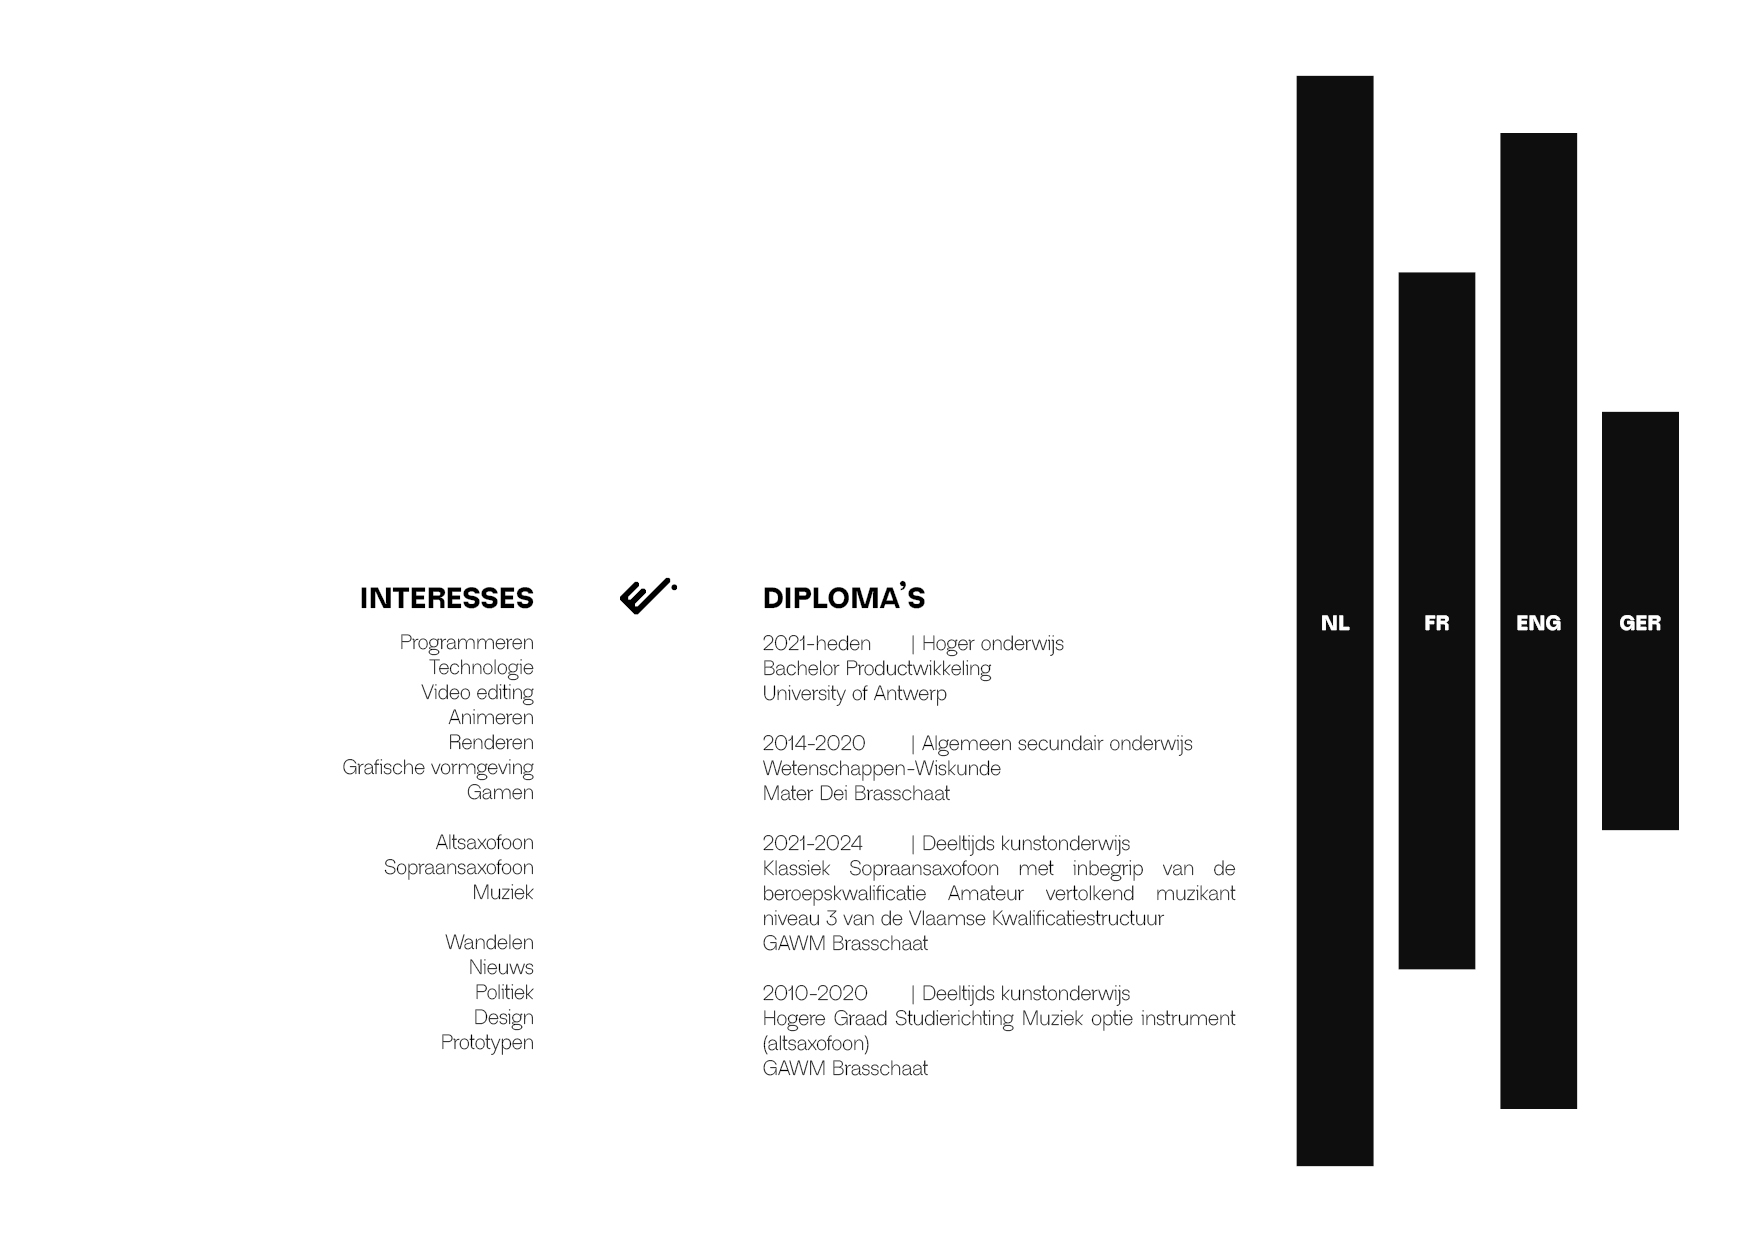
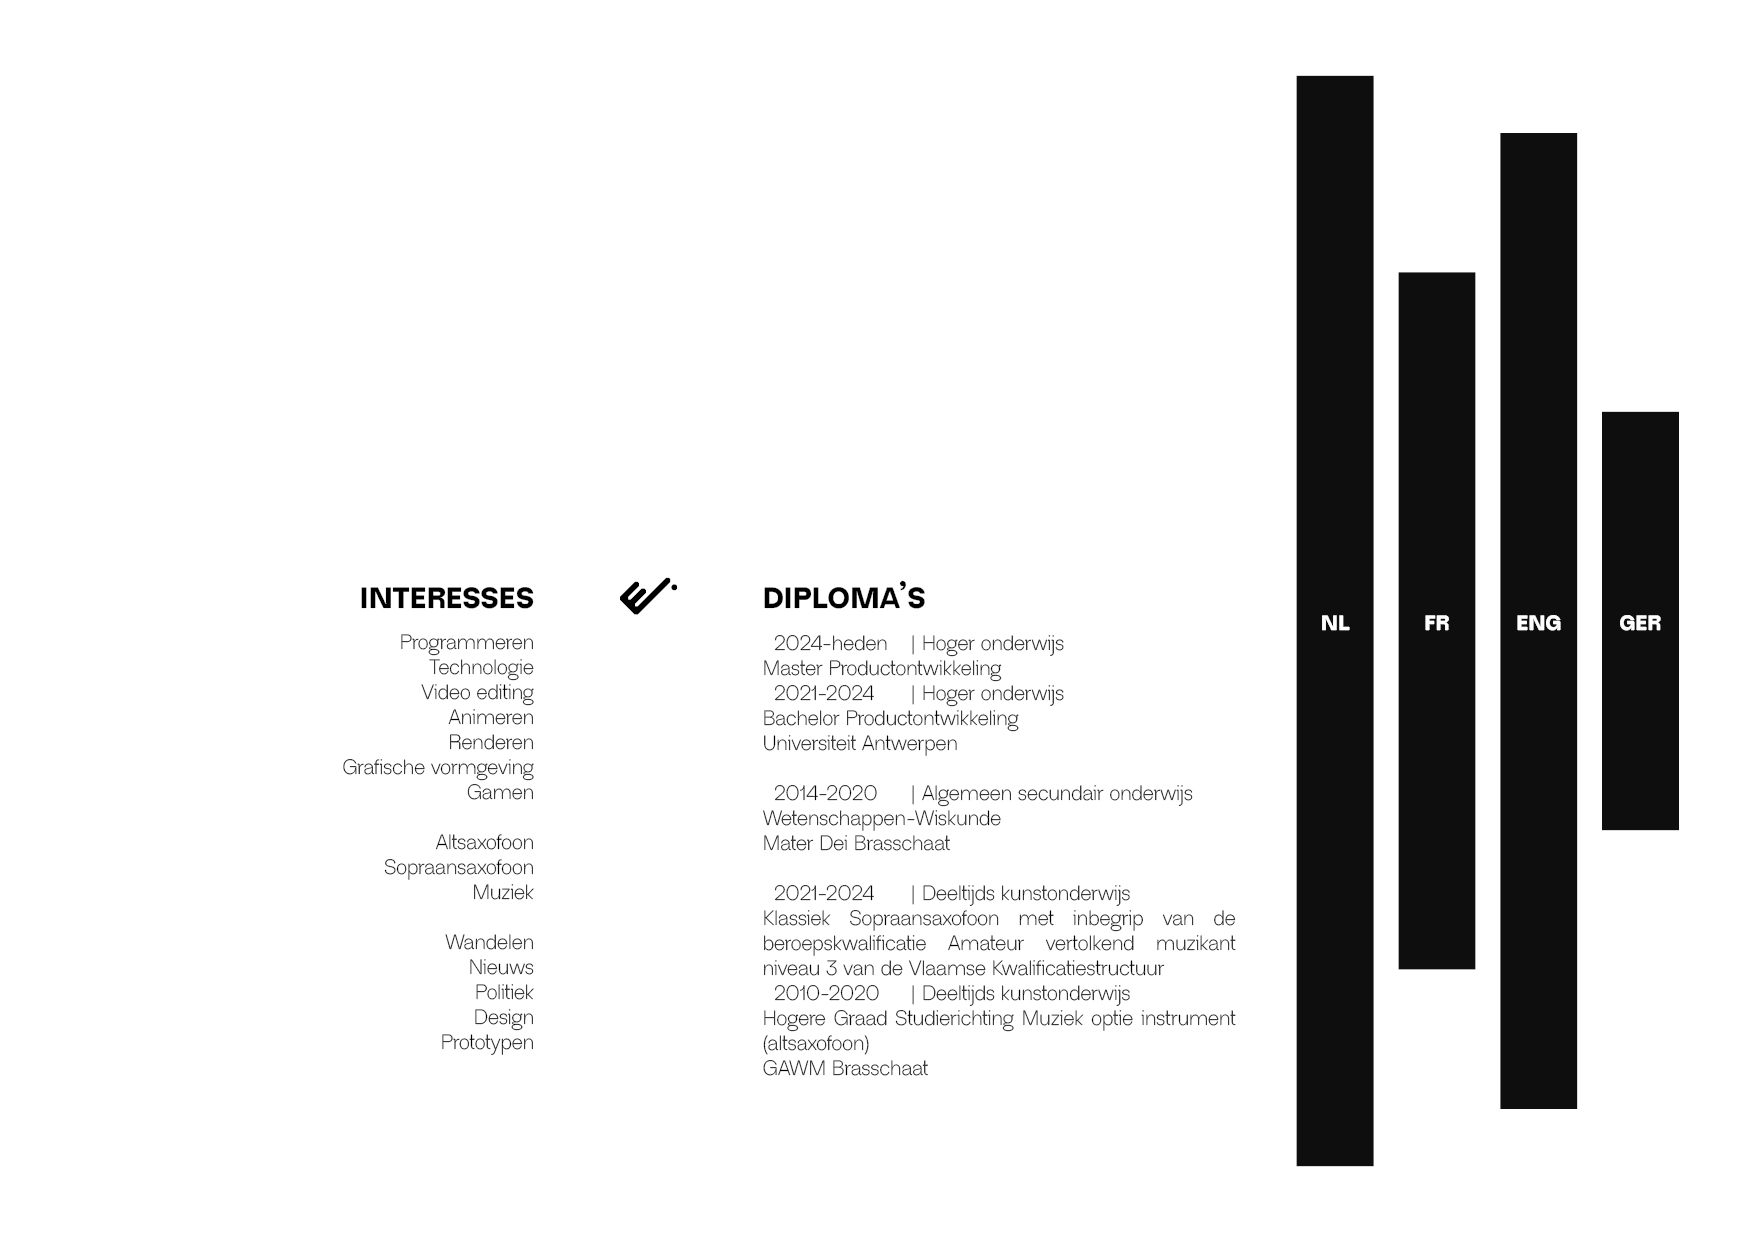
verbeteringen en upgrades
puntje als cursor met nieuwe hover instellingen en correctie productwikkeling --> productontwikkeling

Changed region(s): [[0.431, 0.4903, 0.7081, 0.8274]]

diff --git a/index.html b/index.html
@@ -17,7 +17,10 @@
 
 
 <body style="  background-color: rgb(37, 37, 41);">
-
+  <div class="cursor-dot">
+    <span class="cursor-text"></span>
+  </div>
+</div>
   <div class="loaderContainer">
     <div class="logoDiv">
       <svg id="logo" xmlns="http://www.w3.org/2000/svg" xmlns:xlink="http://www.w3.org/1999/xlink" x="0px"
@@ -122,7 +125,7 @@
           <img class="imageSelect" src="Images/Portfolio28.jpg"
             onclick="playVideo('Videos/1_Datsun-Video.mp4', 'video-container1')">
         </trigger>
-        <div style="background-color: rgb(219, 132, 55);">Klik om de video af te spelen.</div>
+        <!-- <div style="background-color: rgb(219, 132, 55);">Klik om de video af te spelen.</div> -->
         <div id="video-container1" class="image">
           <video id="video-player1" controls autoplay muted class="image">
             Your browser does not support the video tag.
@@ -231,7 +234,7 @@
           <img class="imageSelect" src="Images/Portfolio218.jpg"
             onclick="playVideo('Videos/2_StapleGun-Video.mp4' , 'video-container2')">
         </trigger>
-        <div style="background-color: rgb(239, 62, 35);">Klik om de video af te spelen.</div>
+        <!-- <div style="background-color: rgb(239, 62, 35);">Klik om de video af te spelen.</div> -->
         <div id="video-container2" class="image">
           <video id="video-player2" controls autoplay class="image">
             Your browser does not support the video tag.
@@ -280,7 +283,7 @@
           <img class="imageSelect" src="Images/Portfolio222.jpg"
             onclick="playVideo('Videos/3_Zeeppomp-Video.mp4', 'video-container3')">
         </trigger>
-        <div style="background-color: rgb(0, 0, 0);">Klik om de video af te spelen.</div>
+        <!-- <div style="background-color: rgb(0, 0, 0);">Klik om de video af te spelen.</div> -->
         <div id="video-container3" class="image">
           <video id="video-player3" controls autoplay class="image">
             Your browser does not support the video tag.
@@ -309,7 +312,7 @@
           <img class="imageSelect" src="Images/Portfolio224.jpg"
             onclick="playVideo('Videos/4_Smartphonecase-Video.mp4', 'video-container4')">
         </trigger>
-        <div style="background-color: rgb(172, 104, 62); cursor: pointer;">Klik om de video af te spelen.</div>
+        <!-- <div style="background-color: rgb(172, 104, 62); cursor: pointer;">Klik om de video af te spelen.</div> -->
         <div id="video-container4" class="image">
           <video id="video-player4" controls autoplay class="image">
             Your browser does not support the video tag.
@@ -338,7 +341,7 @@
           <img class="imageSelect" src="Images/Portfolio226.jpg"
             onclick="playVideo('Videos/4-1_Smartphonecase.mp4', 'video-container4-1')">
         </trigger>
-        <div style="background-color: rgb(172, 104, 62);">Klik om de video af te spelen.</div>
+        <!-- <div style="background-color: rgb(172, 104, 62);">Klik om de video af te spelen.</div> -->
         <div id="video-container4-1" class="image">
           <video id="video-player4-1" controls autoplay class="image">
             Your browser does not support the video tag.
@@ -367,7 +370,7 @@
           <img class="imageSelect" src="Images/Portfolio228.jpg"
             onclick="playVideo('Videos/5_Vellum-Video.mp4', 'video-container5')">
         </trigger>
-        <div style="background-color: rgb(63, 129, 141);">Klik om de video af te spelen.</div>
+        <!-- <div style="background-color: rgb(63, 129, 141);">Klik om de video af te spelen.</div> -->
         <div id="video-container5" class="image">
           <video id="video-player5" controls autoplay class="image">
             Your browser does not support the video tag.
@@ -476,7 +479,7 @@
           <img class="imageSelect" src="Images/Portfolio238.jpg"
             onclick="playVideo('Videos/6_Apiary-Video.mp4', 'video-container6')">
         </trigger>
-        <div style="background-color: rgb(221, 201, 138);">Klik om de video af te spelen.</div>
+        <!-- <div style="background-color: rgb(221, 201, 138);">Klik om de video af te spelen.</div> -->
         <div id="video-container6" class="image">
           <video id="video-player6" controls autoplay class="image">
             Your browser does not support the video tag.
@@ -511,7 +514,7 @@
     <div class="text">Portfolio</div>
     <div class="text">18/02/2024</div>
     <div class="text">-</div>
-    <div class="text">23/06/2024</div>
+    <div class="text">24/06/2024</div>
     <div id="current-time"></div>
   </div>
 </body>

diff --git a/style.css b/style.css
@@ -18,6 +18,7 @@
 html, body {
   font-family: Neue Regrade;
   font-size: medium;
+  cursor: none;
 }
 
 
@@ -104,7 +105,7 @@ html, body {
 }
 
 .imageSelect:hover {
-  cursor: pointer;
+  /*cursor: pointer;*/
   filter: blur(1px) grayscale(100%);
 }
 
@@ -149,13 +150,13 @@ trigger:hover+div {
   flex-wrap: wrap;
 }
 
-.video-play-notification {
+/*.video-play-notification {
   cursor: pointer;
-}
+}*/
 
-.video-play-notification:hover {
+/*.video-play-notification:hover {
   cursor: pointer;
-}
+}*/
 
 .text,
 #current-time,
@@ -179,3 +180,53 @@ html {
   scroll-snap-type: y mandatory;
 }
 
+/* Create a dot that will be the custom cursor */
+/* Hide the default cursor */
+body {
+  cursor: none;
+}
+
+/* Create a dot that will be the custom cursor */
+.cursor-dot {
+  width: 10px;
+  height: 10px;
+  background-color: rgb(238, 238, 238); /* Ensure dot is visible when not hovering */
+  border-radius: 50%;
+  position: absolute;
+  pointer-events: none;
+  z-index: 10;
+  transform: translate(-50%, -50%);
+  transition: width 0.2s ease, height 0.2s ease;
+ 
+
+  display: flex;
+  justify-content: center;
+  align-items: center;
+
+  font-family: Neue Regrade;
+  font-size: medium;
+
+  /* Ensure the dot is visible always */
+  opacity: 1; /* Keep the dot visible at all times */
+}
+
+/* Style for the text inside the dot */
+.cursor-text {
+  font-family: Neue Regrade;
+  font-size: medium;
+  color: transparent; /* Hide text initially */
+  transition: color 0.2s ease; /* Transition for text color */
+  z-index: 1000000;
+}
+
+/* When hovering over imageSelect, show text */
+.cursor-dot.show-text .cursor-text {
+  mix-blend-mode: normal;
+  color: rgb(0, 0, 0); /* Show text when hovering */
+}
+
+/* Enlarge dot on hover */
+.cursor-dot.show-text {
+  width: 200px; /* Increase size */
+  height: 200px; /* Increase size */
+}

diff --git a/index.js b/index.js
@@ -150,3 +150,41 @@ window.addEventListener('load', () => {
   });
 });
 
+
+
+// cursor
+// Select the cursor dot element and the span for the text inside it
+const cursorDot = document.querySelector('.cursor-dot');
+const cursorText = document.querySelector('.cursor-text');
+
+// Update the position of the cursor dot when the mouse moves
+document.addEventListener('mousemove', (e) => {
+    cursorDot.style.left = `${e.pageX}px`;
+    cursorDot.style.top = `${e.pageY}px`;
+});
+
+// Handle hover over elements with the imageSelect class
+const imageSelectDivs = document.querySelectorAll('.imageSelect');
+
+imageSelectDivs.forEach(div => {
+    // When the mouse enters an imageSelect div
+    div.addEventListener('mouseenter', () => {
+        cursorDot.classList.add('show-text'); // Show the text
+
+        // Check if this is the specific div you want to target
+        if (div.id === 'videoDiv') {
+            cursorText.textContent = ''; // Set the specific text
+        } else {
+            cursorText.textContent = 'Bekijk video.'; // Default text for other divs
+        }
+    });
+
+    // When the mouse leaves the imageSelect div
+    div.addEventListener('mouseleave', () => {
+        cursorDot.classList.remove('show-text'); // Hide the text
+        cursorText.textContent = ''; // Clear the text when not hovering
+    });
+});
+
+
+
